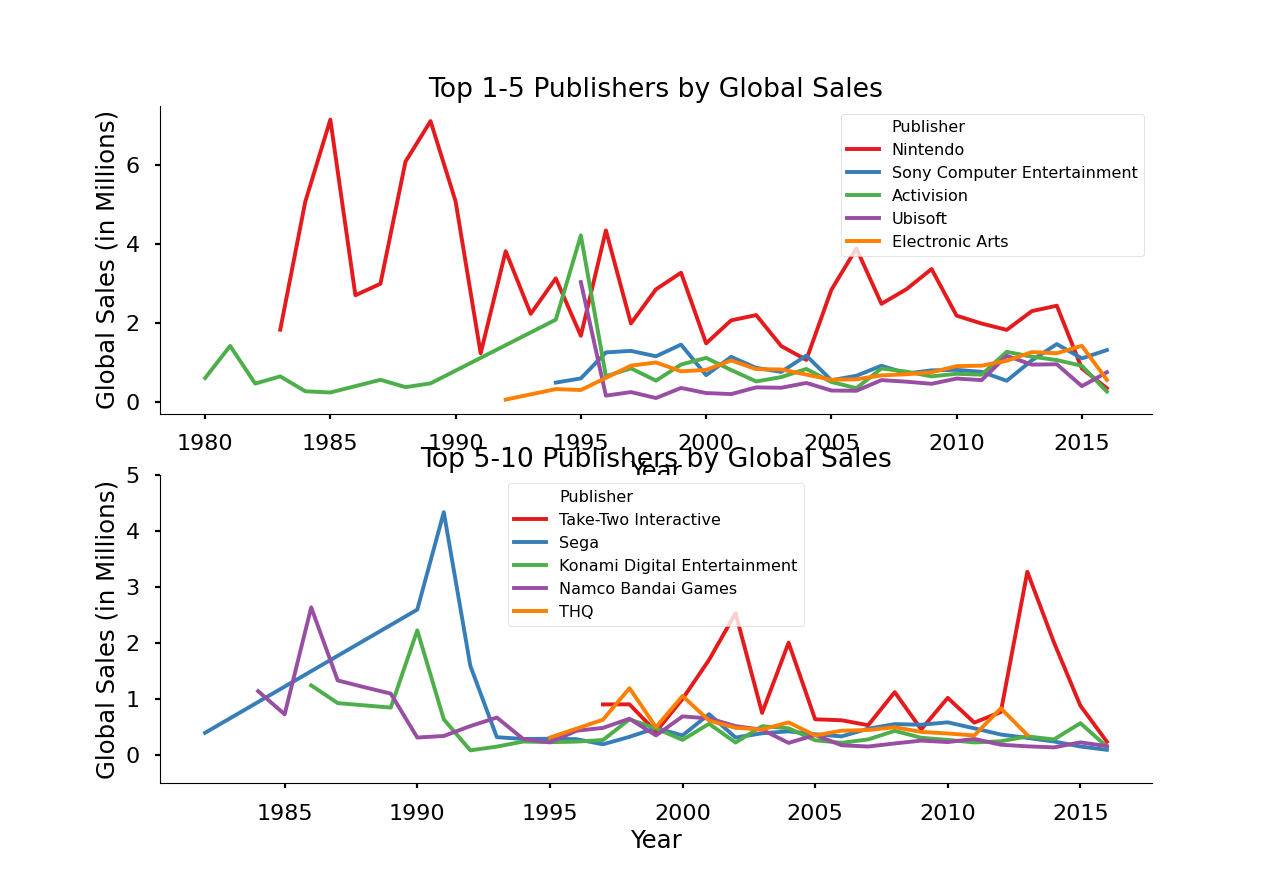
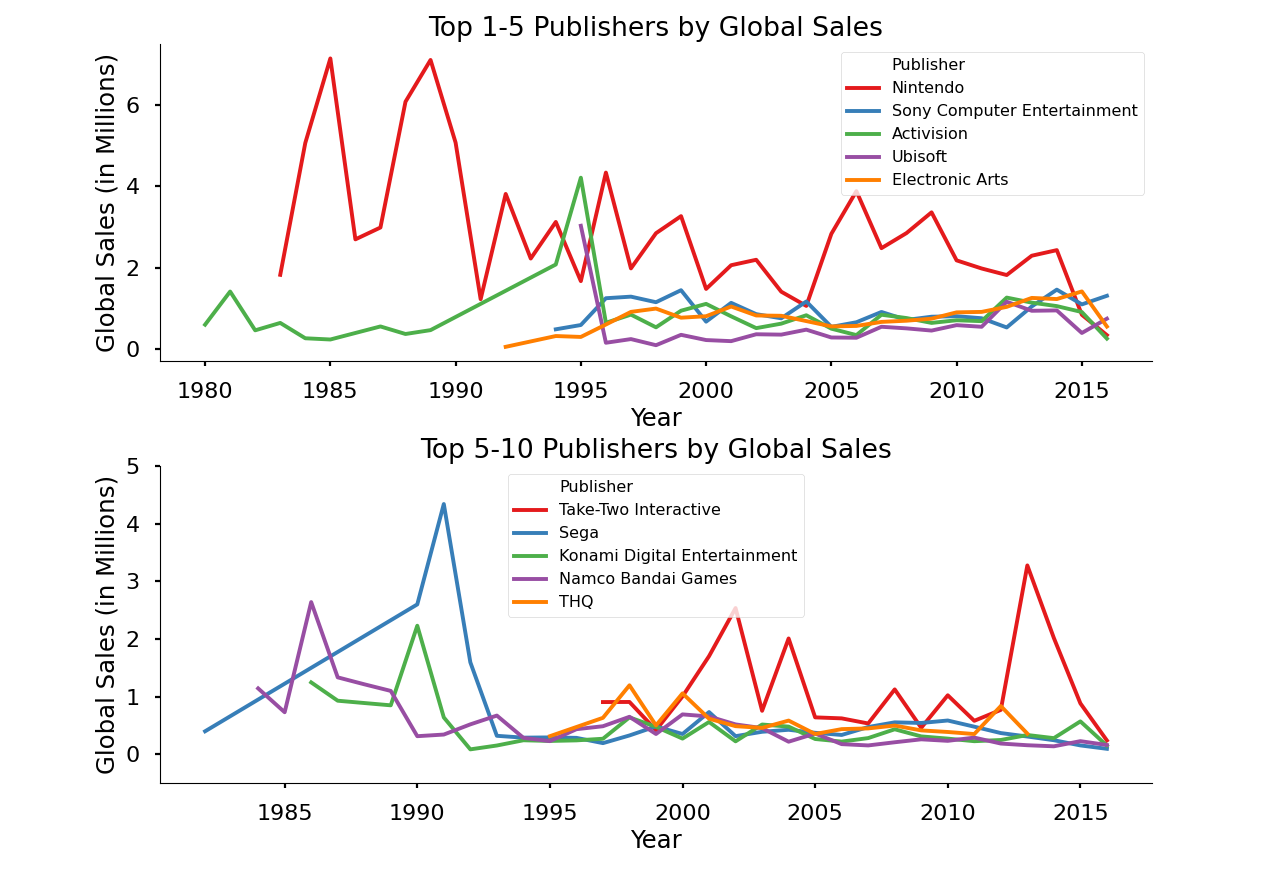
Subplot adjusting

diff --git a/EDA.py b/EDA.py
@@ -94,7 +94,6 @@ def eda(df):
     plt.savefig('Charts/CountryRespectiveSales')
     plt.show()
 
-    
     style.use('seaborn-poster')
     
     top10_publishers_list = df.groupby(['Publisher'])['Global_Sales']\
@@ -108,6 +107,8 @@ def eda(df):
     
 
     fig, (ax0, ax1) = plt.subplots(2,1)
+    plt.subplots_adjust(hspace=0.33, top=.95)
+
     # 1 - 5 in Global Sales
     sns.lineplot(x='Year', y='Global_Sales',
                  data=zero_to_five_publishers_df, hue='Publisher',
@@ -135,5 +136,6 @@ def eda(df):
     ax1.spines['top'].set_visible(False)
 
     plt.savefig('Charts/GlobalSalesPublishers.png')
+
     plt.show()
 
